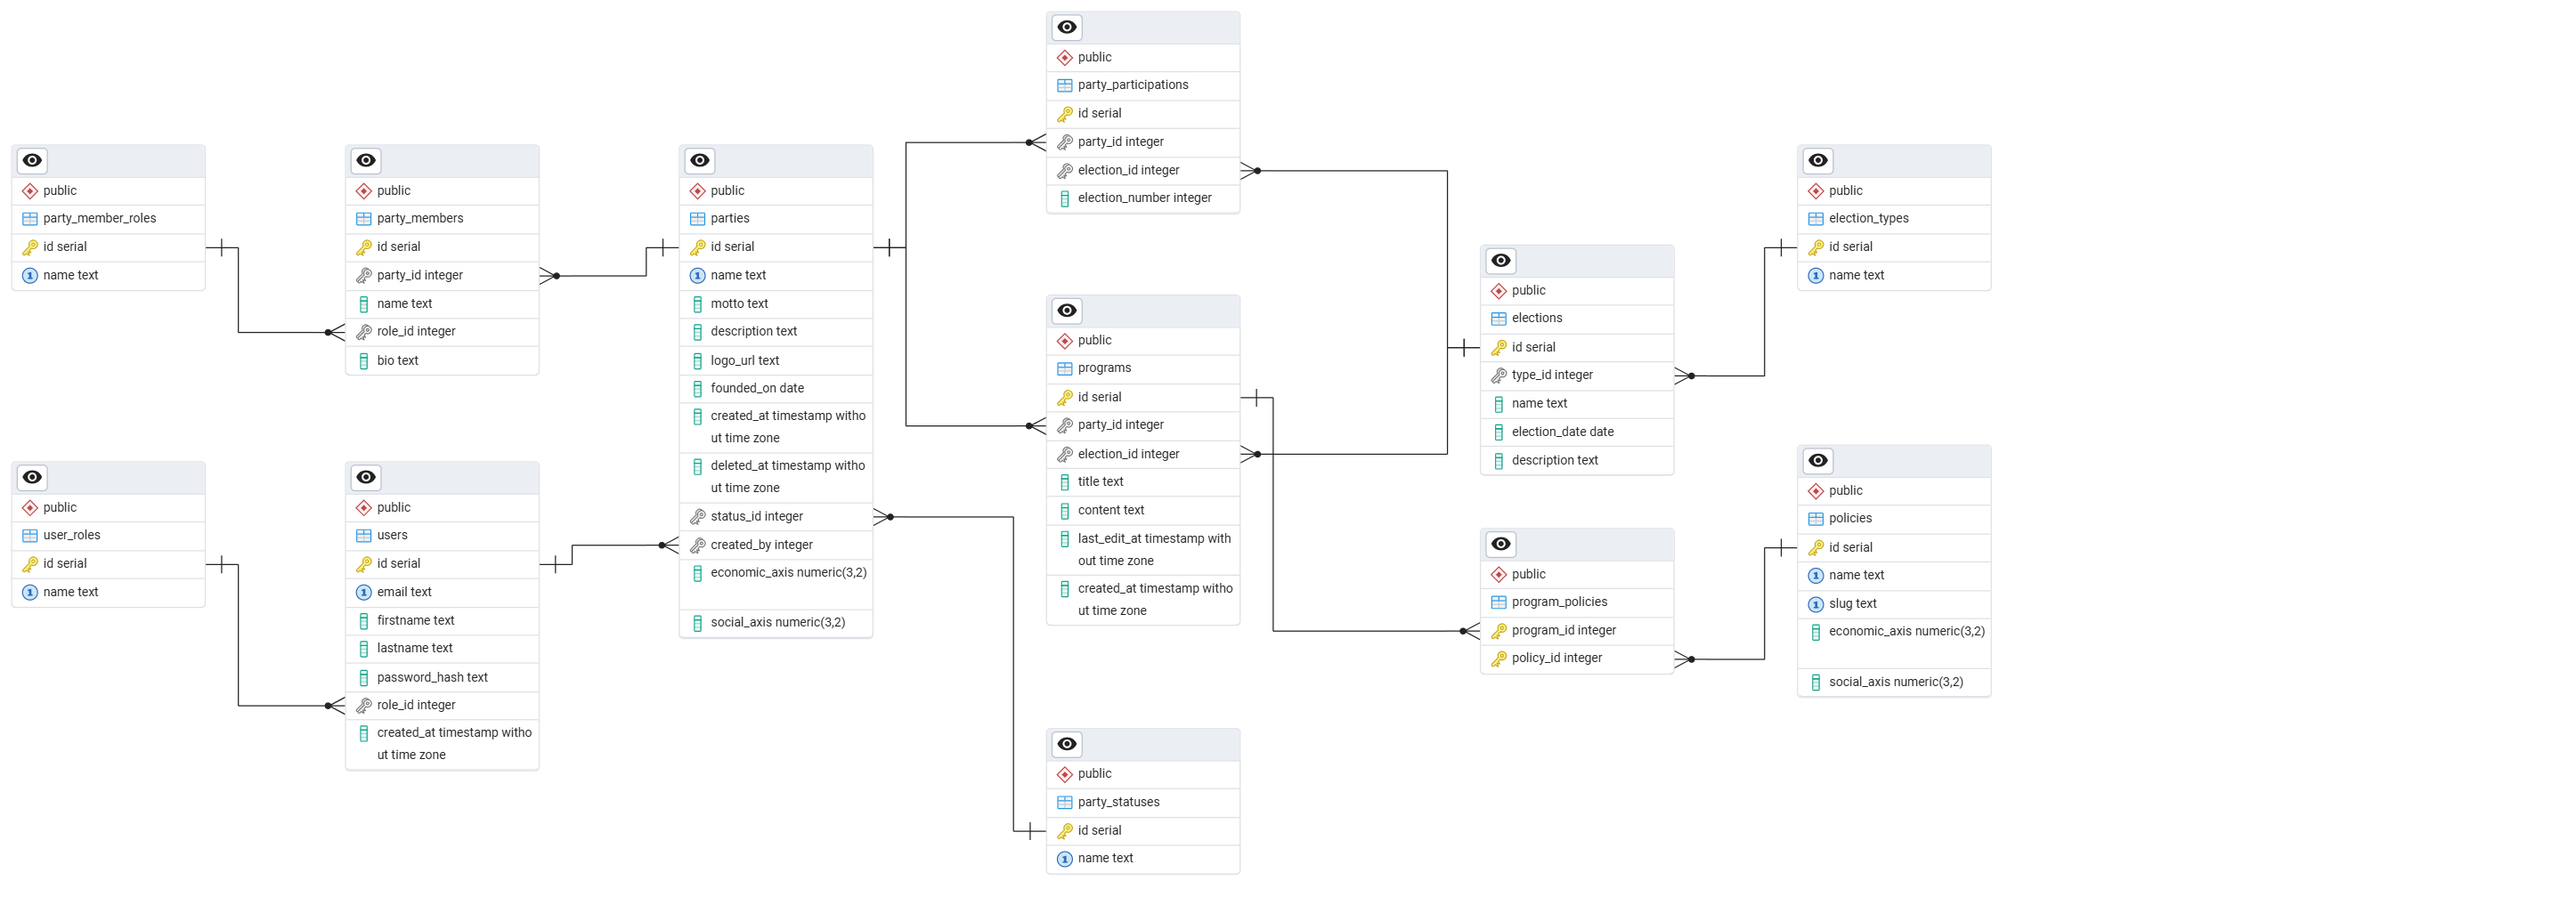
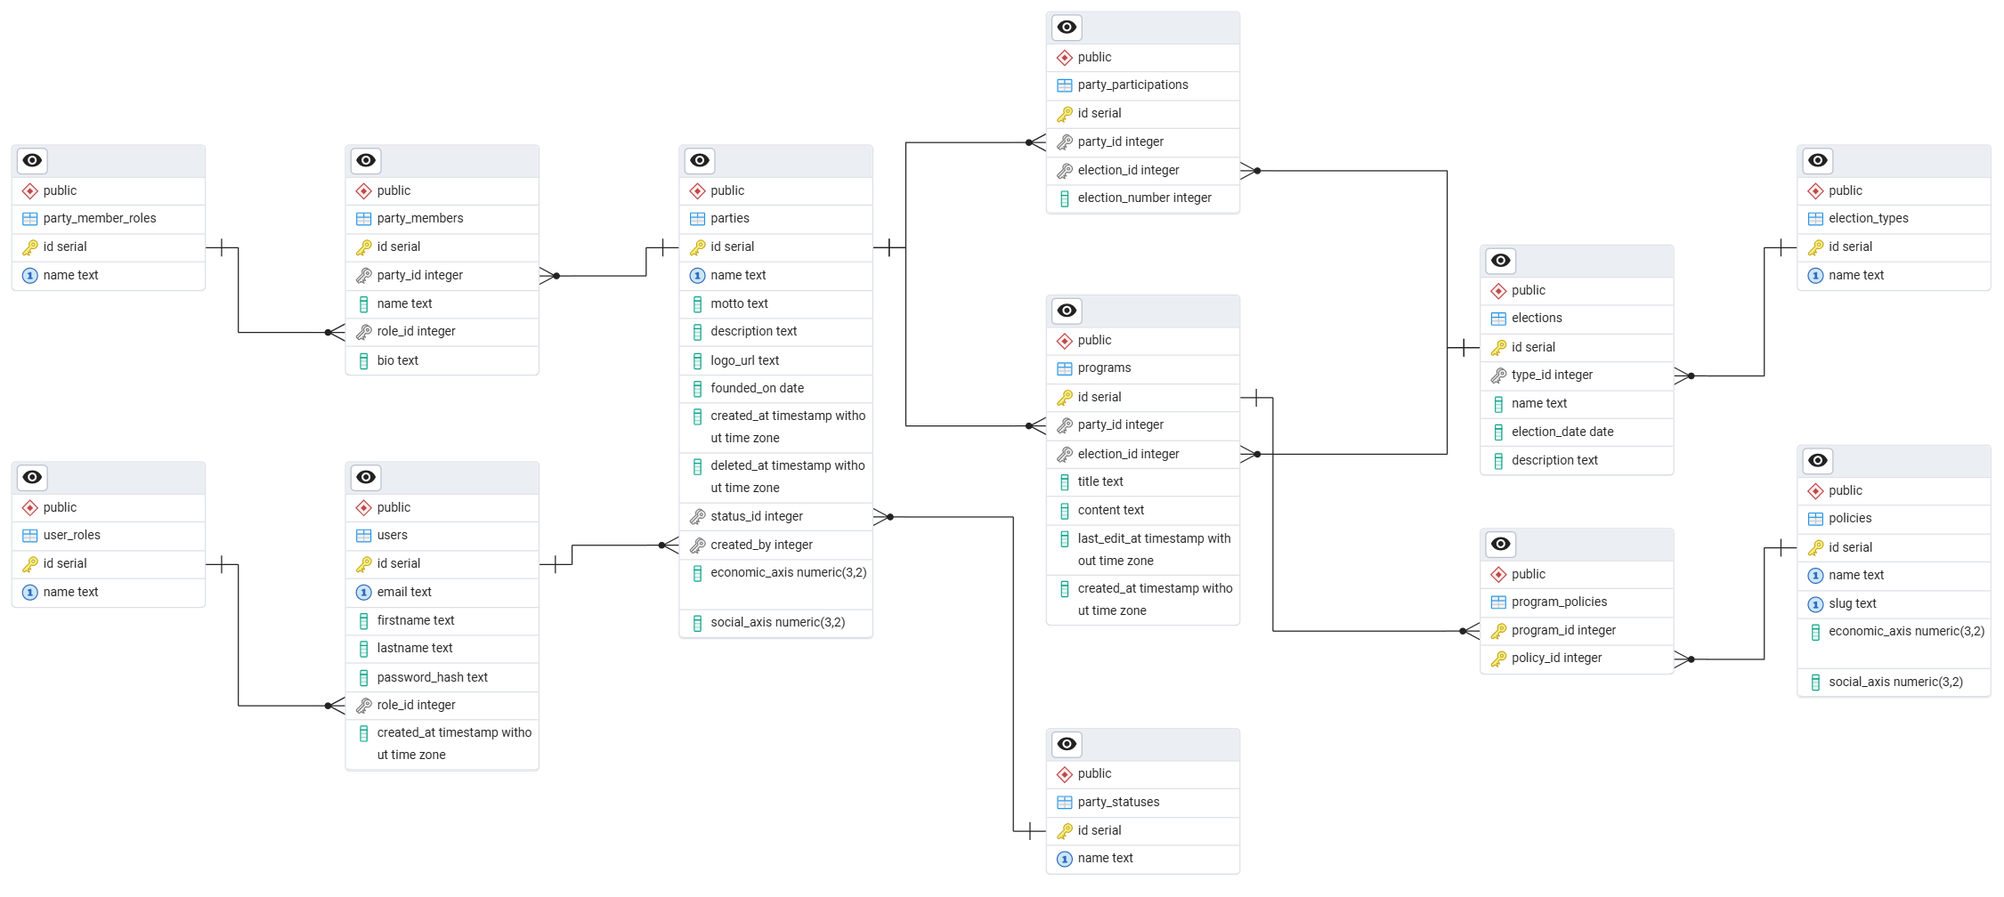
Updated database erd diagram image and added the project documentation in the readme

diff --git a/README.md b/README.md
@@ -1,0 +1,57 @@
+---
+title: polyhub
+---
+_Developed by: Teodor Dichev 7MI0600424, Georgi Stoyanov 6MI0600497_
+
+Polyhub is web application inspired by the need of a common place in the internet for neutral political assesment and where all parties in Bulgaria will share their plans and programs. With the new upcoming elections and rising interest in the youth such software is becoming more and more needed. For instance, take a look at this tool which gained massive popularity: [stazha](https://poltest.strazha.bg/).
+
+The application will be developed using maven as a build tool and these techonologies:
+
+*   Java (Spring boot)
+    
+*   PostgreSQL
+    
+*   Angular and Bootstrap.
+    
+
+We aim to create a RESTfull service with layerd architecture as a MVP and maybe move to SOA in the future. If there is enough time we will add:
+
+*   Unit tests with Junit and Mockito
+    
+*   CI/CD pipelines like running tests after each commit
+    
+*   Spring Boot security
+    
+*   Containers and deploying the application using AWS services
+    
+
+Lets take a deeper look into the structure of the application.
+
+## Roles and entities
+
+Before taking a look at the database let’s discuss what roles and entities we will have.
+
+*   Users: We have three types of users:
+    
+    1.  PartyAdmin: they can login/logout/register, they are responsible for creating a party, adding the party members (party members are not users), managing the program. Everyone can create a profile, however to create a party you need approval. The best option will be to integrate the needed info for approval into a form which can be filled and send to our admins, however due to time limitations and that there are not really a lot of parties the needed info should be sent via email which we will provide.
+        
+    2.  PolyHubAdmin: they are seeded into the database and can add other admins and poly-specialists. They can approve or reject creating a party. They operate through a special dashboard.
+        
+    3.  PolyHubSpecialist: they add new election. They are politologists and experts and they job is to grade each political party, its policies and its program on the political compas.
+        
+*   Parties: they have members which can be added by party admins. For each election parties can have a different program with different policies. We think to integrate a simple text editor into the application and an option to use the last program for this election. Parties can self determine where they stand on the political compas but our polyhub experts will also asses them.
+    
+*   Programs: they have policies (like tags) and a lot of text. As we said programs can be different for each election and have different priorities and politics. The party admin can create them.
+    
+*   Elections: added by our experts whenever their is a new election. Visualized with a new section and parties can add their programs for it. Can have policies and also should be placed on our political compas.
+    
+
+## Database
+
+For our datastore we have chosen traditional relational database.
+
+![](./media/polyhub_erd.png)
+
+## Endpoints
+
+We will provide our endpoints on a github-page. If you have postman try checking them our by opening this link with the application: [endpoints](https://teo-424459.postman.co/workspace/Teo's-Workspace~9ea87044-5372-4b12-8e57-888d2bb6697c/collection/45317997-123122e5-2fe3-42fd-84a0-59f7c58400d8?action=share&source=copy-link&creator=45317997)
